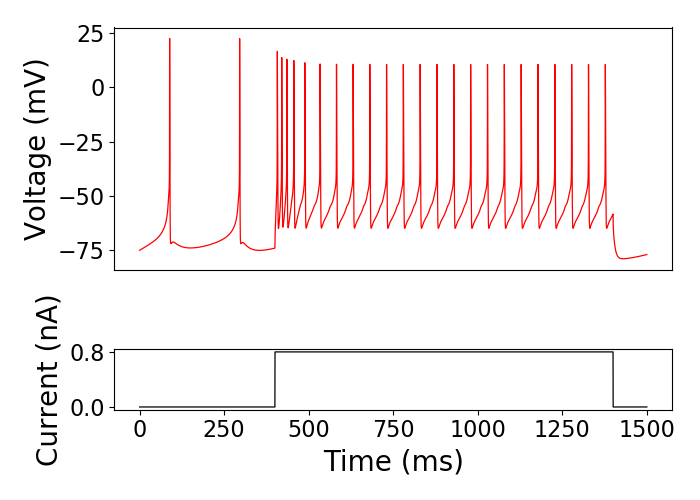
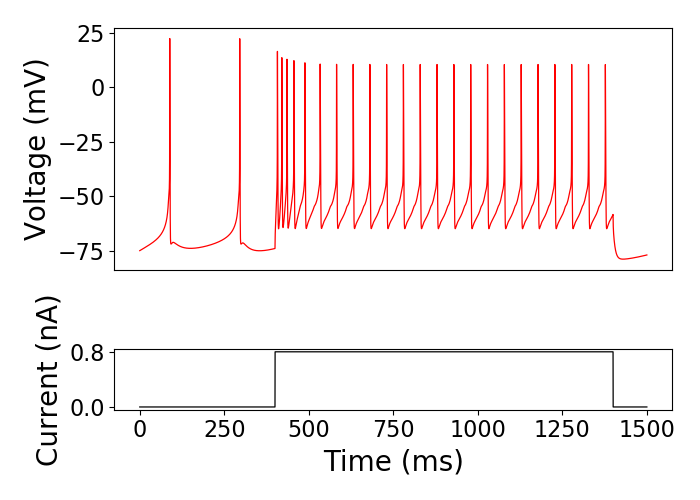
fixed plot

diff --git a/cells/CA3Cell_QianSegPlot/plot.py b/cells/CA3Cell_QianSegPlot/plot.py
@@ -28,7 +28,7 @@ ax = plt.subplot(gs[0])
 ax.set_xticks([])
 for label in ax.get_yticklabels():
     label.set_fontsize(16)
-#ax.set_yticks([-80, -20, 40])
+ax.set_yticks([-75, -50, -25, 0, 25])
 #fig.suptitle('No Segregation', fontsize=20)
 plt.plot(time, trace, color = 'red', lw = 0.9)
 plt.ylabel('Voltage (mV)', fontsize=20)
